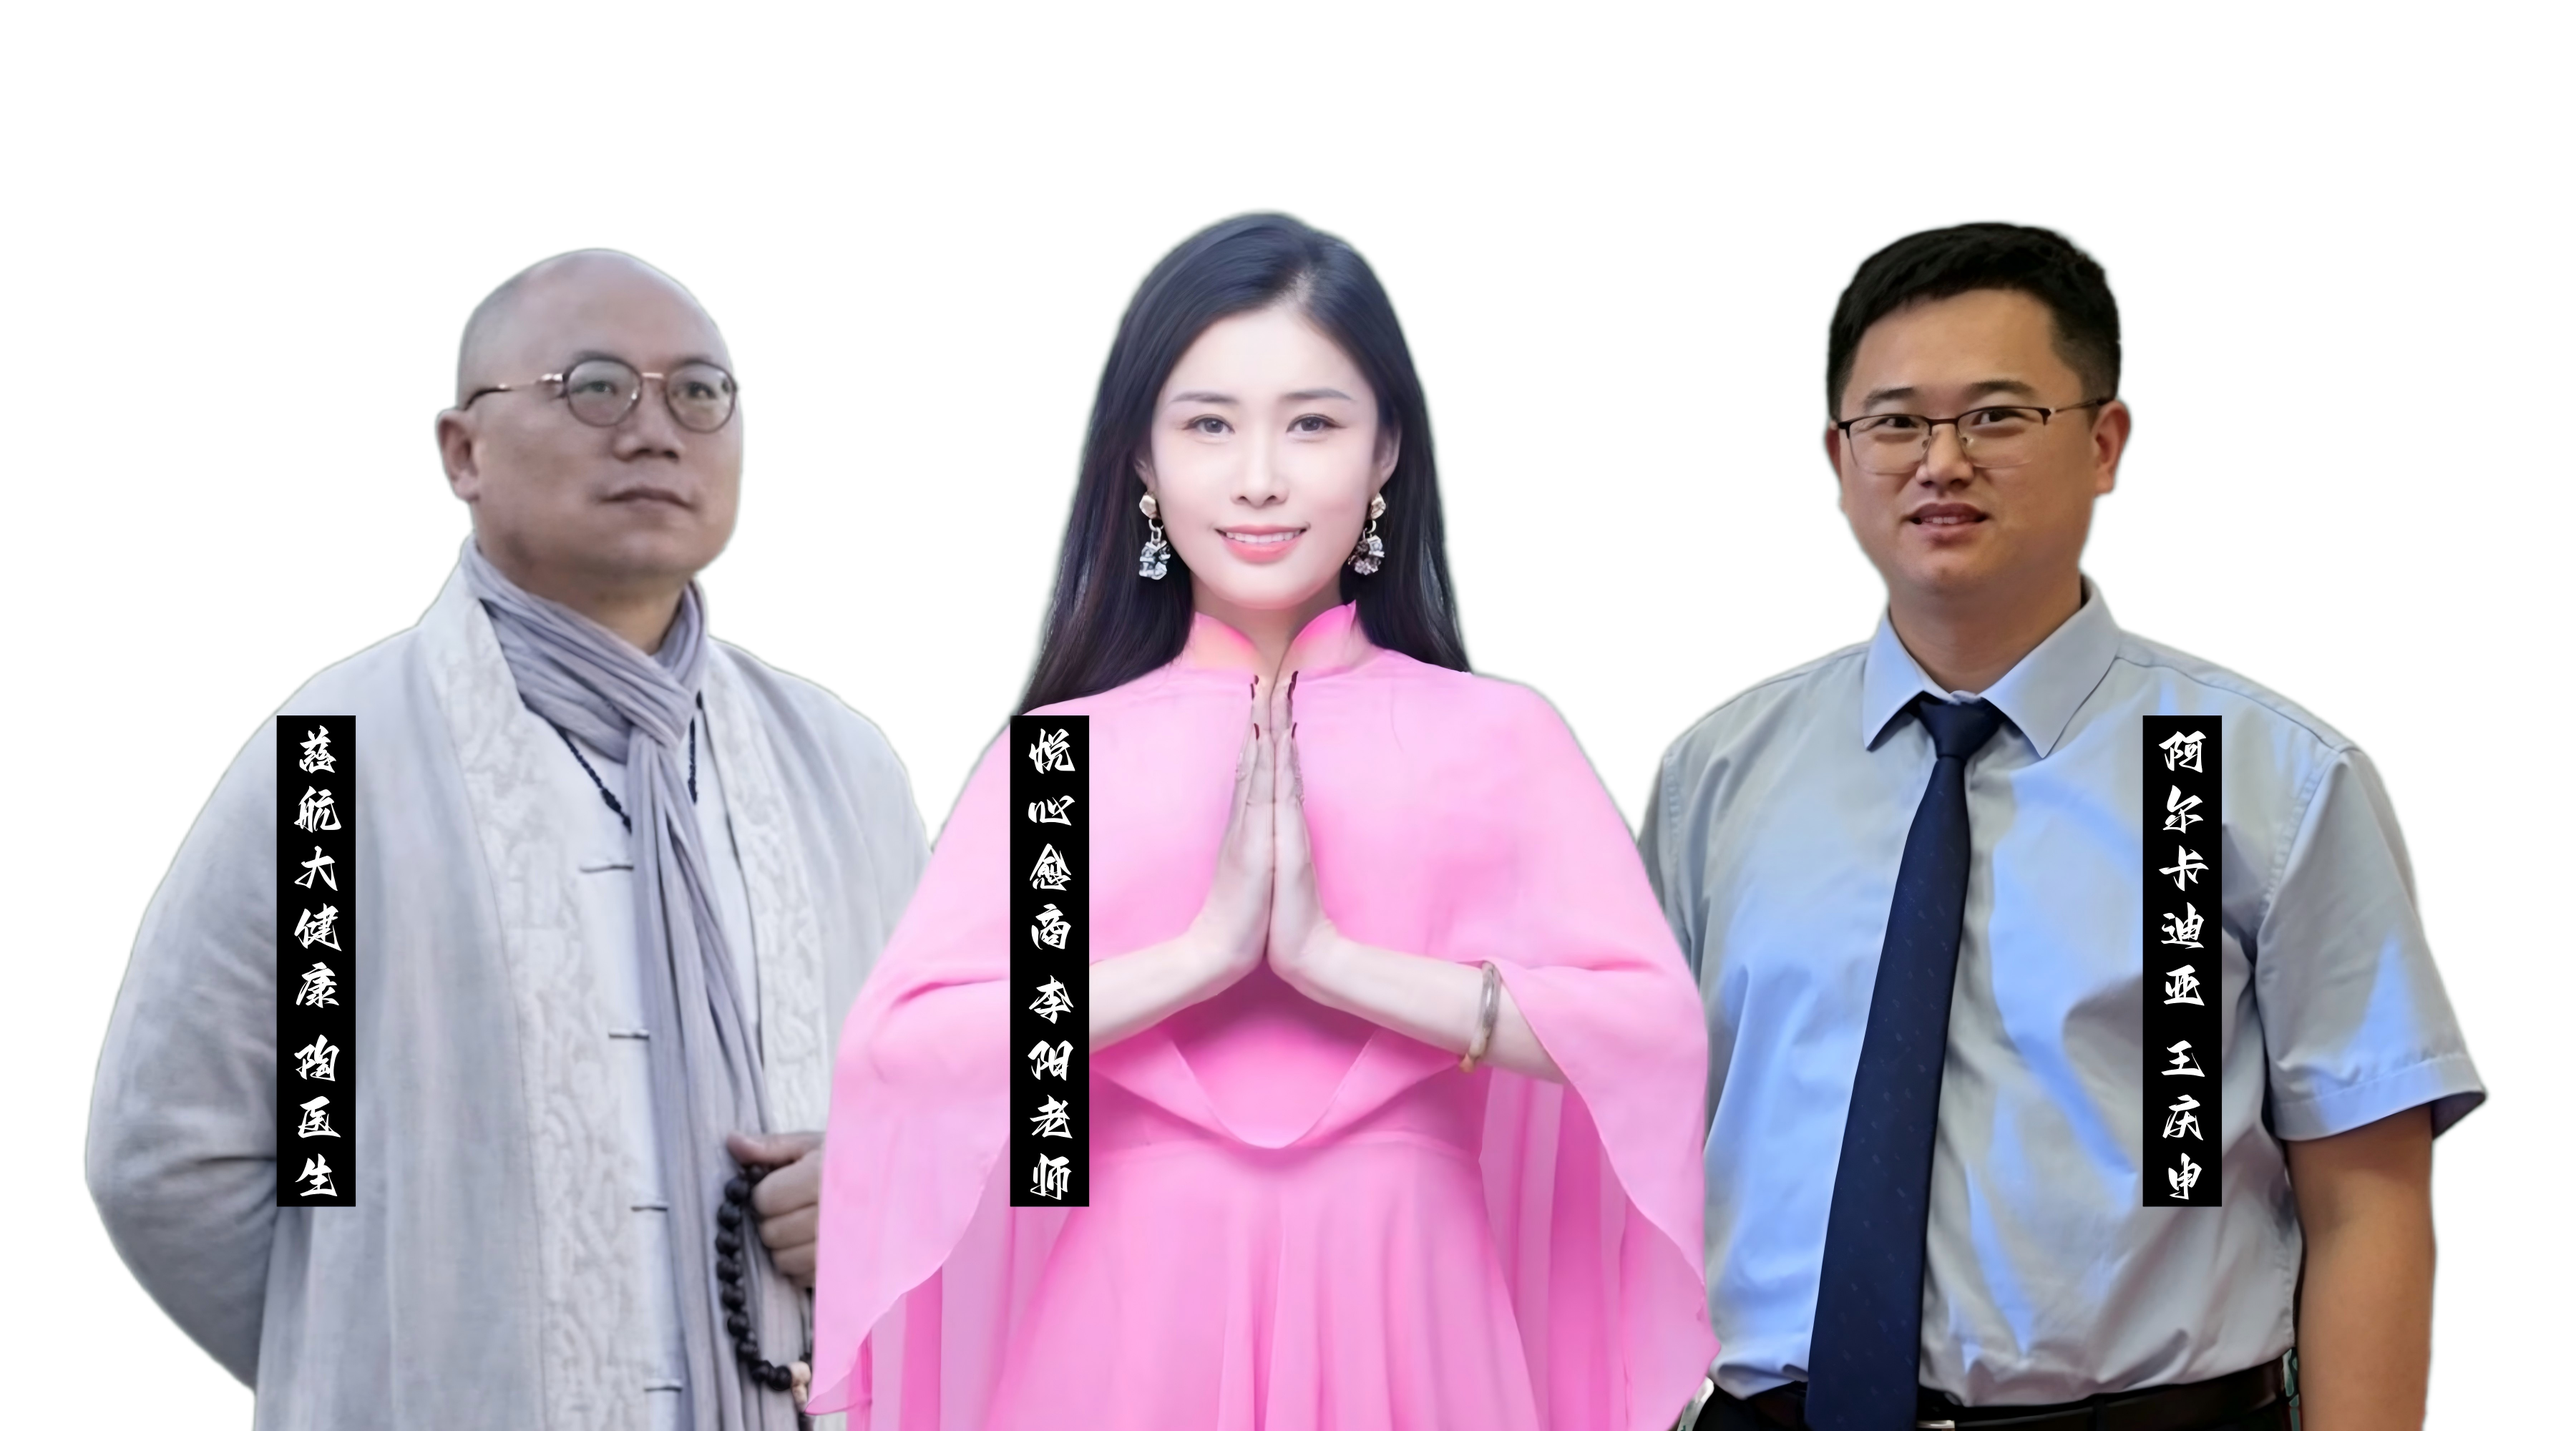
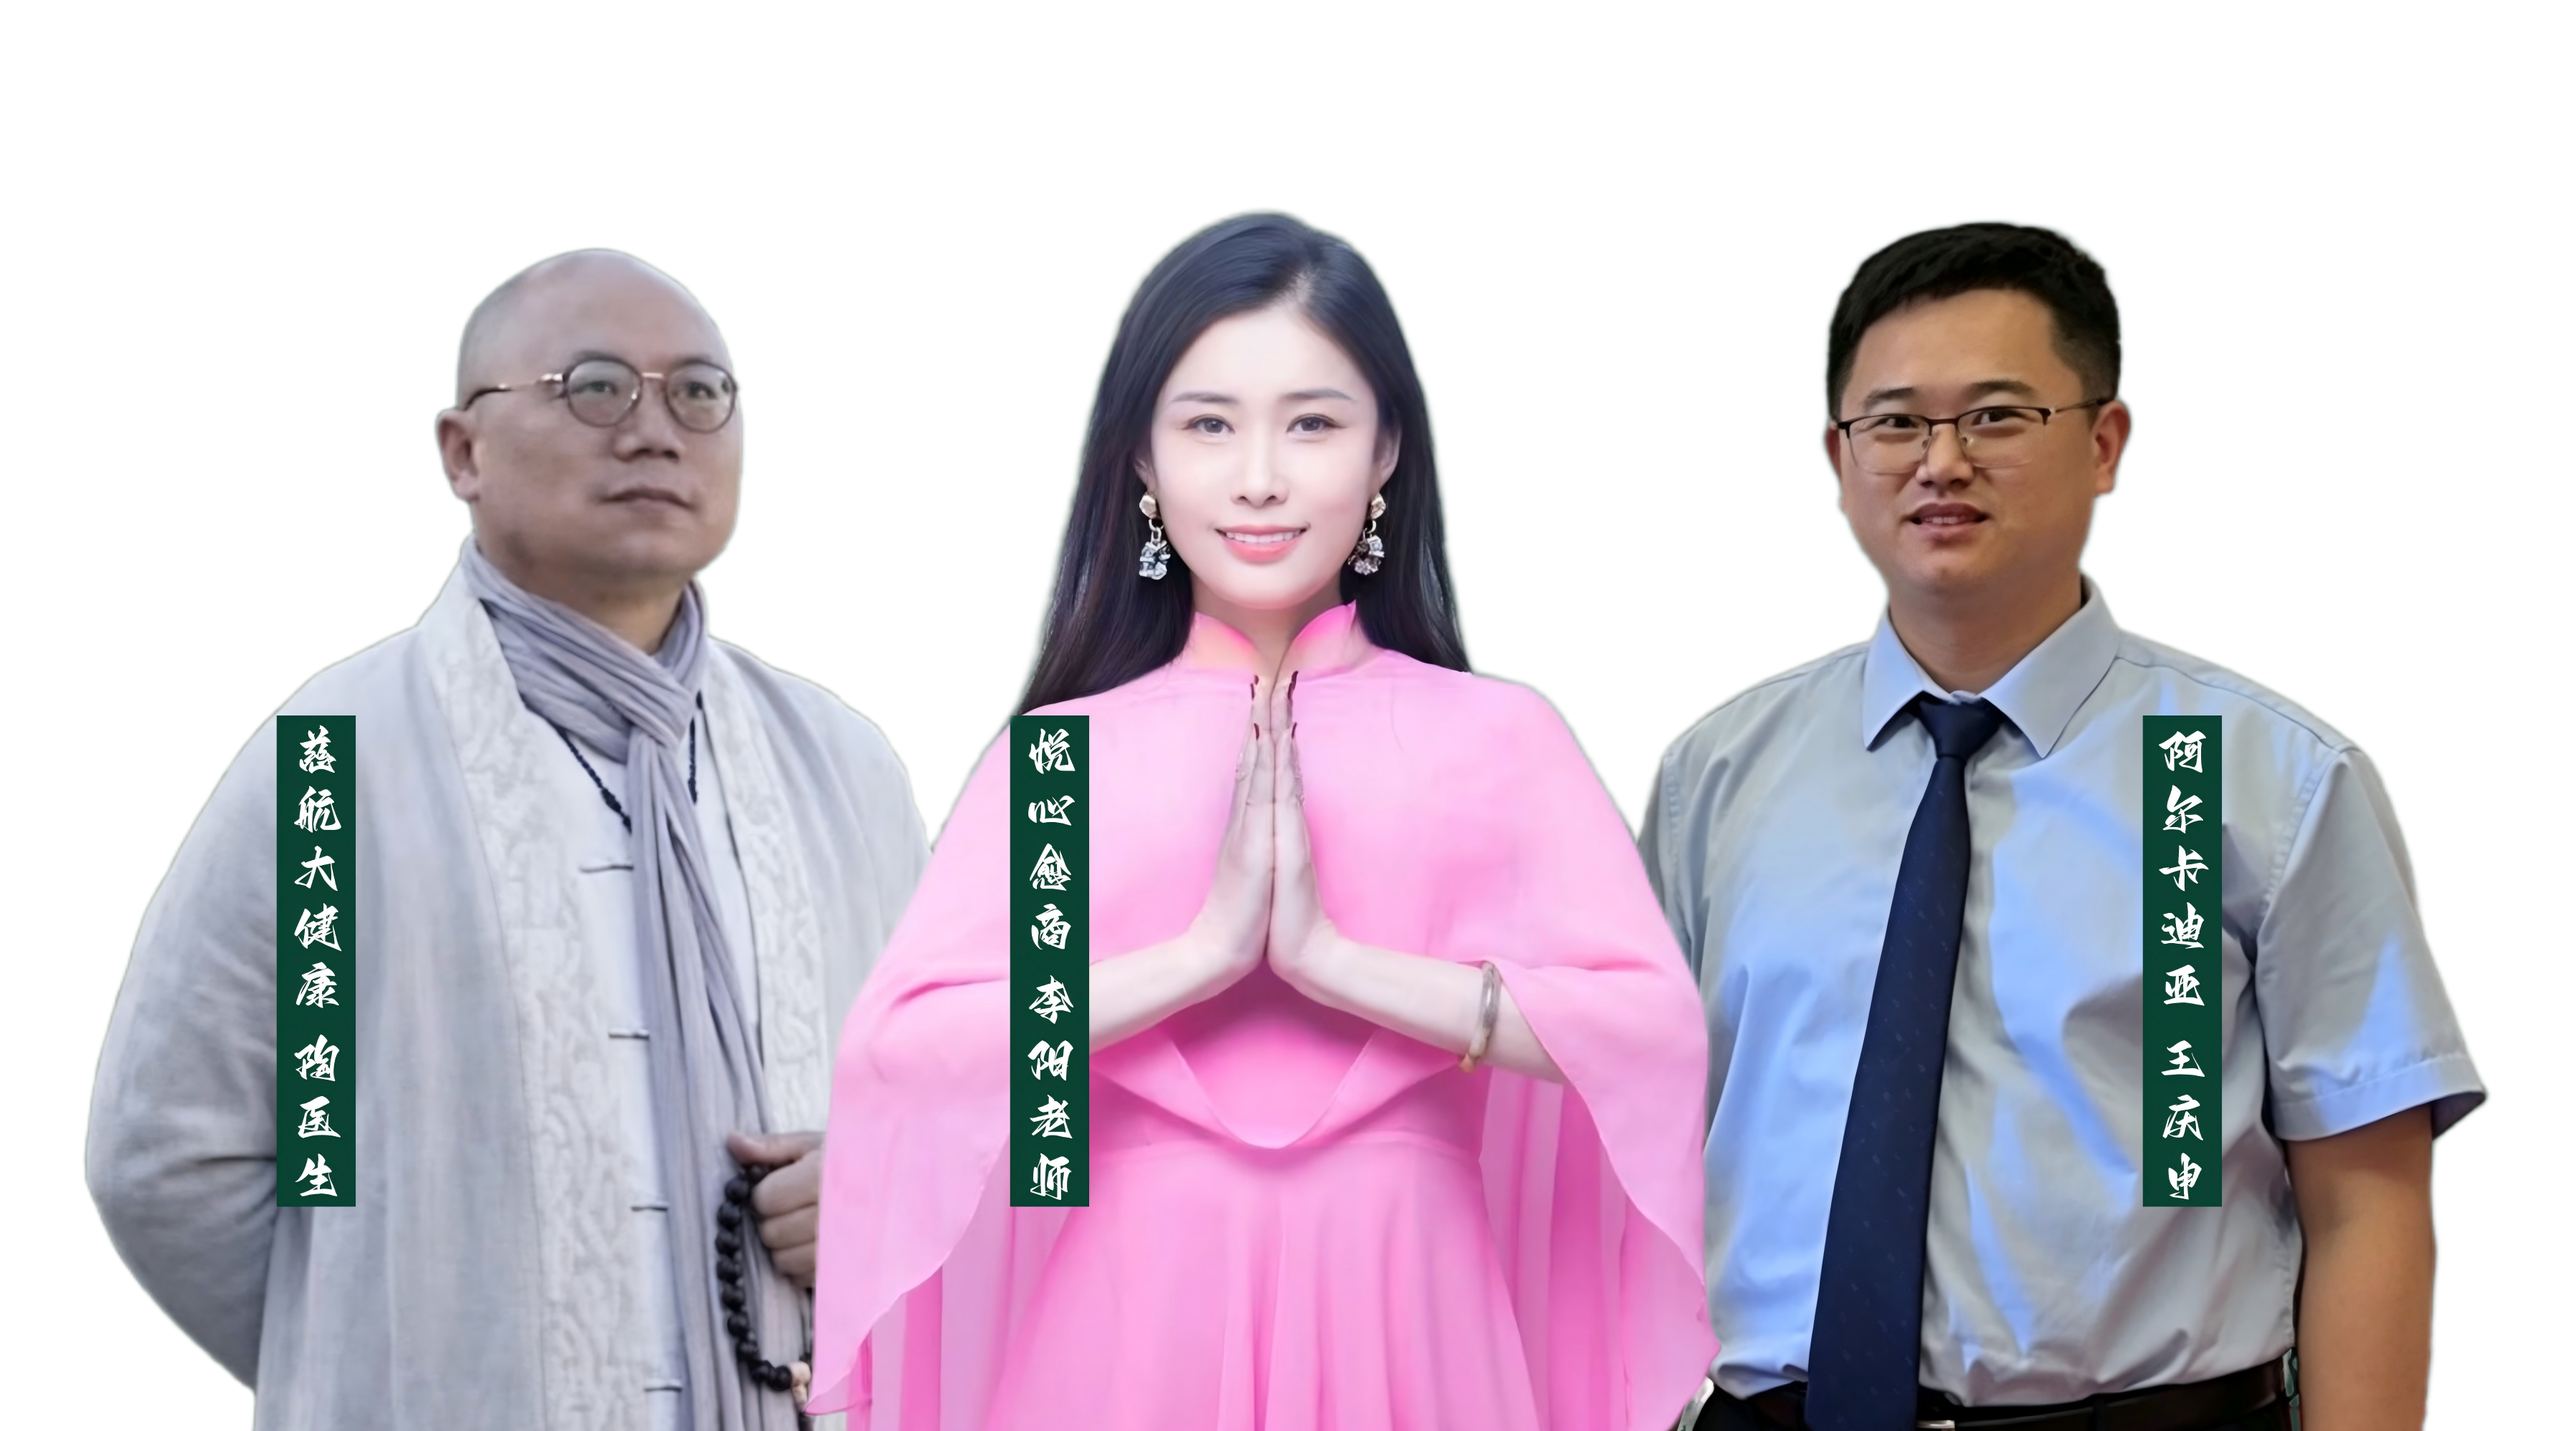
修复音乐+更新封面

Changed region(s): [[0.8089, 0.496, 0.8711, 0.868], [0.3733, 0.496, 0.4356, 0.868], [0.0933, 0.496, 0.1556, 0.868]]

diff --git a/js/main.js b/js/main.js
@@ -174,27 +174,46 @@
     audio.preload = 'auto';
     audio.loop = true;
     audio.volume = 0.3;
-    audio.load();
+    let audioLoaded = false;
+    let playPending = false;
     let isPlaying = false;
     let userInteracted = false;
 
+    // 预加载
+    audio.addEventListener('canplaythrough', () => {
+      audioLoaded = true;
+      if (playPending) {
+        playPending = false;
+        audio.play().then(() => {
+          isPlaying = true;
+          btn.classList.remove('muted');
+          btn.textContent = '🎵';
+        }).catch(() => {});
+      }
+    });
+    audio.load();
+
     function doPlay() {
-      audio.play().then(() => {
-        isPlaying = true;
-        btn.classList.remove('muted');
-        btn.textContent = '🎵';
-      }).catch(() => {
-        btn.classList.add('muted');
-        btn.textContent = '🎵';
-      });
+      if (audioLoaded) {
+        audio.play().then(() => {
+          isPlaying = true;
+          btn.classList.remove('muted');
+          btn.textContent = '🎵';
+        }).catch(() => {
+          btn.classList.add('muted');
+          btn.textContent = '🎵';
+        });
+      } else {
+        // 还没加载完，标记等加载后播放
+        playPending = true;
+        btn.textContent = '⏳';
+      }
     }
 
     function tryAutoPlay() {
       if (userInteracted) return;
       userInteracted = true;
       doPlay();
-      document.removeEventListener('touchstart', tryAutoPlay);
-      document.removeEventListener('click', tryAutoPlay);
     }
     document.addEventListener('touchstart', tryAutoPlay, { once: true });
     document.addEventListener('click', tryAutoPlay, { once: true });
